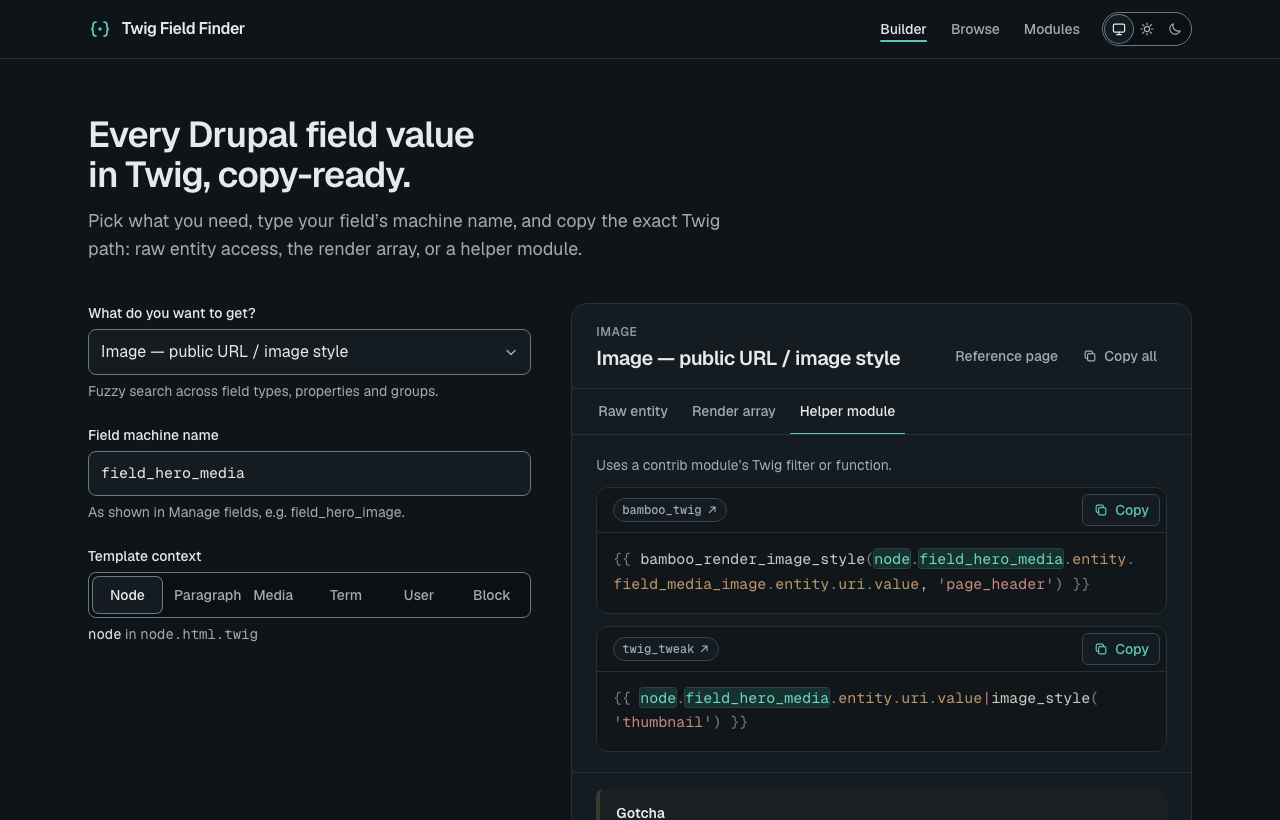
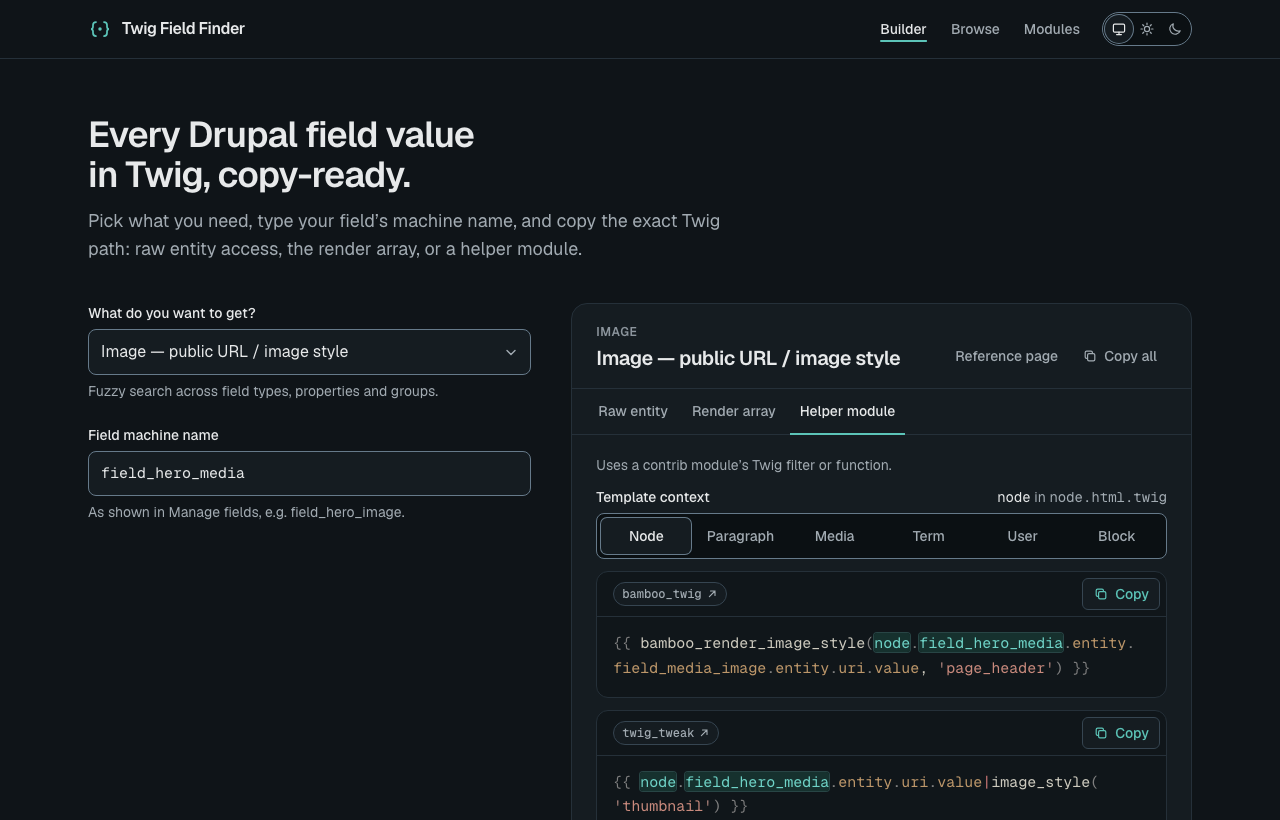
docs: refresh screenshots and README for the recent changes
The screenshots show the template context in the result panel. The README describes where it sits, documents the `context` key and its content test, and lists optional Google Analytics.

diff --git a/README.md b/README.md
@@ -8,7 +8,7 @@ array, or a contrib helper module.
 
 <picture>
   <source media="(prefers-color-scheme: dark)" srcset="docs/screenshot-dark.png">
-  <img src="docs/screenshot-light.png" alt="The snippet builder: the field type picker, machine name and template context on the left; the highlighted Twig result with copy buttons on the right.">
+  <img src="docs/screenshot-light.png" alt="The snippet builder: the field type picker and machine name on the left; on the right, approach tabs, the template context and the highlighted Twig result with copy buttons.">
 </picture>
 
 It started as my personal notes on getting field values in Twig. It is also a portfolio piece, so
@@ -18,14 +18,16 @@ the architecture, accessibility and performance get the same care as the feature
 
 - **Snippet builder.** A fuzzy, grouped, fully keyboard-operable field-type picker. Field
   machine-name input with inline validation and a one-click `field_` prefix suggestion that never
-  rewrites your input. Template context (node, paragraph, media, term, user, block). Approach tabs,
-  syntax highlighting with your values marked, copy per snippet or all at once.
+  rewrites your input. Approach tabs, syntax highlighting with your values marked, copy per snippet
+  or all at once. Template context (node, paragraph, media, term, user, block) sits next to the
+  snippets it changes, and names the one template they work in when they're tied to it.
 - **Shareable answers.** The builder state lives in the URL:
   `/?entry=link-url&field=field_cta&entity=taxonomy_term&tab=render`.
 - **A static page per entry** (`/fields/[id]/`) with every approach, for search and direct links,
   each linking into the builder with the state prefilled.
 - **Browse** every entry, filterable by group and contrib module, and a **helper modules** page.
 - **Dark mode** that follows the system, with a manual System / Light / Dark switch.
+- **Optional Google Analytics**, off unless `PUBLIC_GA_ID` is set at build time.
 - **Review mode** in development: entries I corrected or am unsure about show their verification
   note. Production builds leave the notes out, and a post-build check proves it.
 
@@ -123,8 +125,9 @@ e2e/                            Playwright and axe tests
        module: twig_field_value # an id from modules.yaml
    ```
 
-   Optional keys: `usesField: false` (see below), `notes` (shown under the result as a gotcha;
-   supports `inline code`) and `review` (what to verify; shown in development only).
+   Optional keys: `usesField: false` (see below), `context` (see below), `notes` (shown under the
+   result as a gotcha; supports `inline code`) and `review` (what to verify; shown in development
+   only).
 
 2. Placeholders:
    - `__ENTITY__` becomes the template's entity variable (`node`, `paragraph`, `media`, `term`,
@@ -136,8 +139,9 @@ e2e/                            Playwright and axe tests
    name (ID, title, bundle…), set `usesField: false`.
 
 3. Run `pnpm test`. The content tests check the folder and group, known modules, unique ids and
-   order, `usesField` against `__FIELD__`, `__SUBFIELD__` only with `__FIELD__`, and no misspelt
-   placeholders. Every snippet is also highlighted and contrast-checked.
+   order, `usesField` against `__FIELD__`, `__SUBFIELD__` only with `__FIELD__`, `context` only
+   where a snippet doesn't use `__ENTITY__`, and no misspelt placeholders. Every snippet is also
+   highlighted and contrast-checked.
 
 **New group:** add it to `groups.yaml` with an `order`. **New module:** add it to `modules.yaml`
 with a name, a drupal.org URL and a one-line description.
